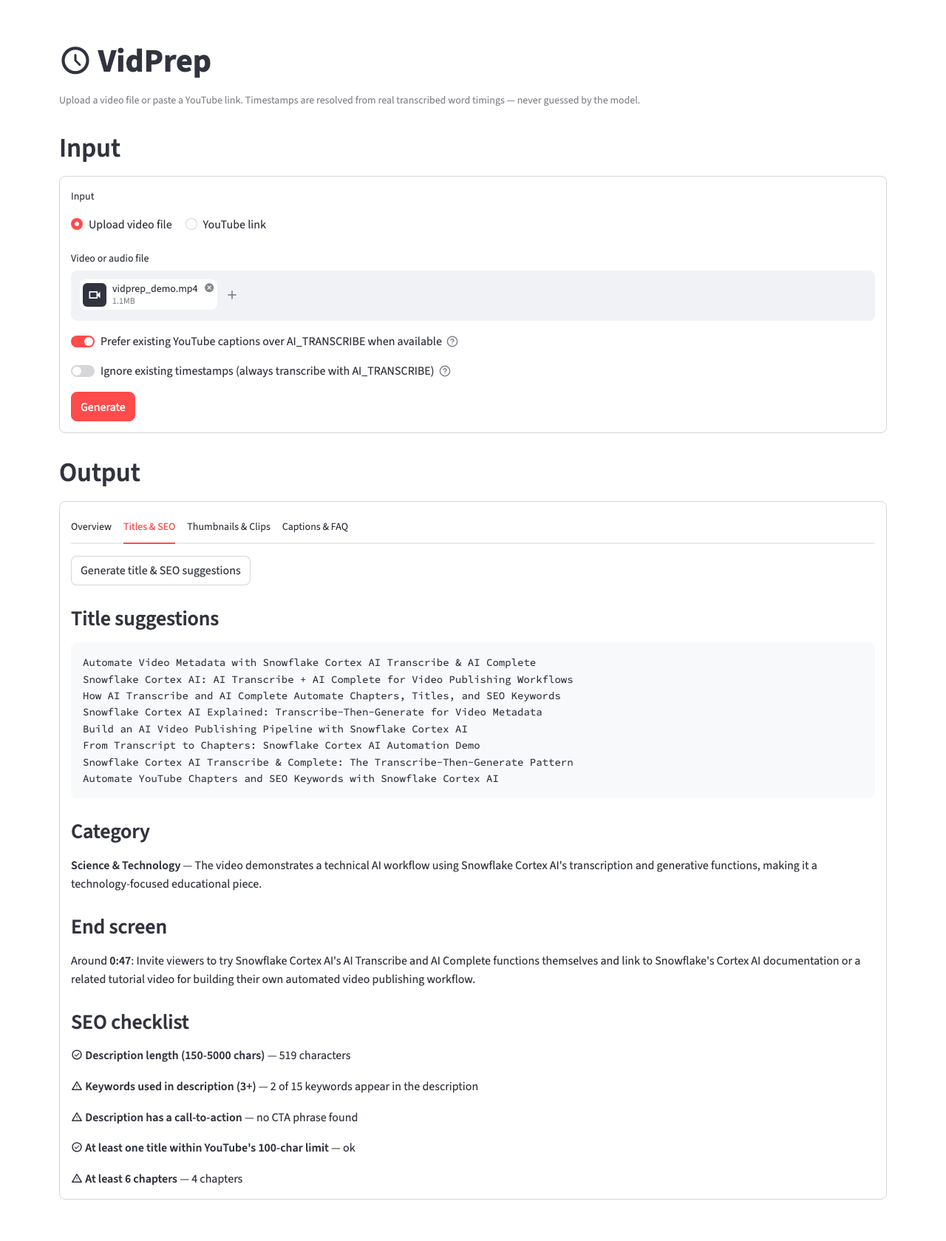
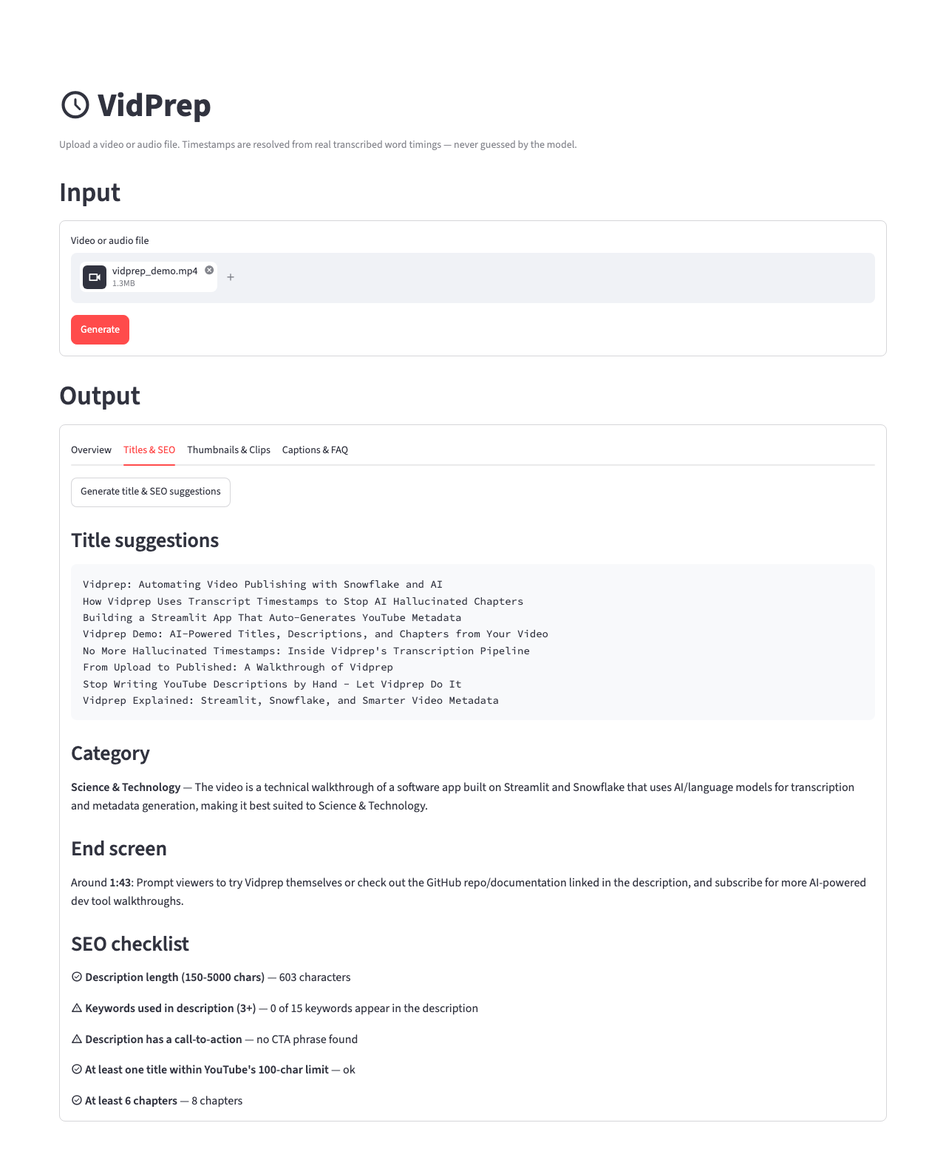
Sync guide with verified upload-only app and sample video
Brings the draft in line with sfquickstarts PR #3597: retry and cache fixes, YouTube path removed, refreshed live screenshots and diagram, and a pointer to the sample test video.

Generated with [Snowflake CoCo](https://docs.snowflake.com/en/user-guide/cortex-code/cortex-code)

diff --git a/ai-powered-video-publishing.md b/ai-powered-video-publishing.md
@@ -2,7 +2,7 @@ author: Chanin Nantasenamat
 id: ai-powered-video-publishing
 categories: snowflake-site:taxonomy/solution-center/certification/quickstart,snowflake-site:taxonomy/product/ai,snowflake-site:taxonomy/snowflake-feature/cortex-llm-functions
 language: en
-summary: Build VidPrep, a Streamlit-in-Snowflake app that uses AI_TRANSCRIBE and AI_COMPLETE to generate word-accurate video chapters, descriptions, SEO metadata, thumbnails, and captions.
+summary: Build VidPrep, a Streamlit-in-Snowflake app that uses AI_TRANSCRIBE and AI_COMPLETE to draft video chapters, descriptions, SEO metadata, thumbnails, and captions.
 environments: web
 status: Published
 feedback link: https://github.com/Snowflake-Labs/sfguides/issues
@@ -10,25 +10,26 @@ fork repo link: https://github.com/sfc-gh-cnantasenamat/ai-powered-video-publish
 
 
 # Build an AI-Powered Video Publishing App on Snowflake
-<!-- ------------------------ -->
 ## Overview
 
-Creators publishing a video usually have to write a description, mark chapter timestamps, pick SEO keywords, choose a thumbnail, and write captions, all by hand and all after the fact. VidPrep automates this end to end: give it a video file or a YouTube link, and it produces a word-accurate transcript, real (not guessed) chapter timestamps, a description, SEO titles and keywords, thumbnail candidates, pull quotes, caption files, and an FAQ, all backed by Snowflake Cortex.
+Creators publishing a video usually have to write a description, mark chapter timestamps, pick SEO keywords, choose a thumbnail, and write captions. VidPrep prepares drafts of these outputs from an uploaded video or audio file using Snowflake Cortex. Review the transcript and generated copy before publishing; transcription and model output can contain errors.
 
 The core design principle behind VidPrep is that a large language model should never be trusted to emit a timestamp directly, because it can hallucinate one that doesn't correspond to anything said in the video. Instead, the model is only ever asked to point at a position in a real, transcribed word array, and the actual timestamp is looked up in code from that position. This guide walks through that architecture and how to build and deploy the whole app on Snowflake.
 
 ![VidPrep architecture: video upload through AI-generated titles, descriptions, timestamps, thumbnails, and captions](assets/vidprep-flow-diagram.png)
+
+Read the solid arrows as processing order, not unconditional execution: cached results can skip work, and extras run only when requested. The warehouse provides the SQL query context; Cortex runs AI inference on its own compute. The diagram's warehouse arrows indicate SQL calls, not the location of model execution.
 
 ### What You'll Learn
 - How to use `AI_TRANSCRIBE` to produce word-level timestamped transcripts, including chunking media that exceeds its length limit
 - How to use `AI_COMPLETE` with a structured JSON response format to extract chapters, descriptions, and SEO metadata
 - Why timestamps should be resolved from real transcript data in code, never generated directly by a model
 - How to build a multi-tab Streamlit UI with lazy, cached AI generation per tab
-- How to deploy a Streamlit app that needs outbound internet access (via `yt-dlp`) using Snowpark Container Services and an External Access Integration
+- How to deploy a Streamlit app on the container runtime, with a compute pool and an External Access Integration for installing Python packages from PyPI
 
 ### What You'll Build
 VidPrep, a Streamlit-in-Snowflake app, with:
-- An **Overview** tab with generated chapters (clickable, deep-linking into the source video), a video preview, and a copy-paste description block
+- An **Overview** tab with generated chapters (clickable: each timestamp seeks the preview player), a video preview, and a copy-paste description block
 - A **Titles & SEO** tab with title suggestions, a YouTube category pick, an end-screen suggestion, and a free SEO checklist
 - A **Thumbnails & Clips** tab with real extracted thumbnail frames and verbatim pull quotes
 - A **Captions & FAQ** tab with downloadable `.srt`/`.vtt` caption files and a generated FAQ
@@ -41,18 +42,21 @@ VidPrep, a Streamlit-in-Snowflake app, with:
 
 ![VidPrep Captions & FAQ tab: downloadable caption files and a generated, timestamp-linked FAQ](assets/05-output-captions-faq.png)
 
+These screenshots show a synthetic demo upload and its generated results. The SEO checklist includes warnings, and generated copy should always be reviewed before publishing.
+
 ### Prerequisites
 - Access to a [Snowflake account](https://signup.snowflake.com/?utm_source=snowflake-devrel&utm_medium=developer-guides&utm_cta=developer-guides)
-- A role with privileges to create a warehouse, database, stage, compute pool, network rule, and external access integration (e.g. `ACCOUNTADMIN`, or an equivalent custom role)
+- A role with privileges to create a warehouse, database, stage, compute pool, and external access integration (e.g. `ACCOUNTADMIN`, or an equivalent custom role)
 - [Snowflake CLI](https://docs.snowflake.com/en/developer-guide/snowflake-cli/index) (`snow`) installed locally
 - Python 3.11+ installed locally
 - Familiarity with Python and basic SQL
 
-<!-- ------------------------ -->
 ## Setup
 
 ### Create the Snowflake objects
-Run the following as a role with sufficient privileges. This creates a dedicated warehouse, database/schema, an internal stage (used to hand media files to `AI_TRANSCRIBE`), a compute pool for the Streamlit container runtime, and two External Access Integrations: one so the app can reach YouTube, and one so the container runtime can install the Python dependencies in `pyproject.toml` from PyPI (container runtime apps have no PyPI access by default).
+Use a dedicated tutorial environment, and record which resources you create. Do not reuse or replace another project's app. Cortex calls and container compute incur usage charges.
+
+Run the following as a role with sufficient privileges. This creates a dedicated warehouse, database/schema, an internal stage (used to hand media files to `AI_TRANSCRIBE`), a compute pool for the Streamlit container runtime, and an External Access Integration so the container runtime can install the Python dependencies in `pyproject.toml` from PyPI (container runtime apps have no PyPI access by default).
 
 ```sql
 -- XSMALL is enough here: the AI_TRANSCRIBE/AI_COMPLETE calls run on Cortex's
@@ -70,15 +74,6 @@ CREATE COMPUTE POOL IF NOT EXISTS VIDPREP_COMPUTE_POOL
   MAX_NODES = 1
   INSTANCE_FAMILY = CPU_X64_XS;
 
-CREATE NETWORK RULE IF NOT EXISTS VIDPREP_EGRESS_RULE
-  MODE = EGRESS
-  TYPE = HOST_PORT
-  VALUE_LIST = ('youtube.com', '*.youtube.com', '*.googlevideo.com');
-
-CREATE EXTERNAL ACCESS INTEGRATION IF NOT EXISTS VIDPREP_EAI
-  ALLOWED_NETWORK_RULES = (VIDPREP_EGRESS_RULE)
-  ENABLED = TRUE;
-
 -- Container runtime apps need this to install pyproject.toml's dependencies
 -- from PyPI. SNOWFLAKE.EXTERNAL_ACCESS.PYPI_RULE is a Snowflake-managed
 -- network rule, so no separate CREATE NETWORK RULE is needed for it.
@@ -94,7 +89,7 @@ cd ai-powered-video-publishing
 ```
 
 ### Review the dependencies
-The app's `pyproject.toml` pulls in everything needed, including `yt-dlp` for media acquisition, `imageio-ffmpeg` for a bundled ffmpeg binary (the container runtime has no system ffmpeg), and `deno`, which `yt-dlp` needs as a JavaScript runtime to solve YouTube's signature challenges:
+The app's `pyproject.toml` is short. Besides Streamlit and the Snowflake connector, it only needs `imageio-ffmpeg` for a bundled ffmpeg binary, because the container runtime has no system ffmpeg:
 
 ```toml
 [project]
@@ -103,11 +98,8 @@ version = "0.1.0"
 requires-python = ">=3.11"
 dependencies = [
     "snowflake-connector-python>=3.3.0",
-    "streamlit[snowflake]>=1.57.0",
-    "webvtt-py>=0.5.1",
-    "yt-dlp[default]>=2026.8.19",
+    "streamlit[snowflake]>=1.64.0",
     "imageio-ffmpeg>=0.5.1",
-    "deno>=2.9.0",
 ]
 ```
 
@@ -129,71 +121,52 @@ def run_query(sql: str, params=None):
     return cur.fetchall()
 ```
 
-For local development, create `.streamlit/secrets.toml`:
+For local development, use an existing named Snowflake connection without copying credentials into the project. Start the app with the intended profile explicitly selected:
 
-```toml
-[connections.snowflake]
-account = "<your_account_identifier>"
-user = "<your_username>"
-password = "<your_password>"
-warehouse = "VIDPREP_WH"
-role = "<your_role>"
-database = "VIDPREP_DB"
-schema = "APPS"
+```bash
+SNOWFLAKE_DEFAULT_CONNECTION_NAME=<your_connection_name> python -m streamlit run app.py
 ```
+
+Confirm that profile targets the intended account and has access to the configured stage. Hosted Streamlit uses its embedded identity. For isolated tests, set `VIDPREP_STAGE_FQN` to a test-only stage and `VIDPREP_CACHE_DIR` to a fresh local directory. Stage names must contain three unquoted identifiers. Never commit connection credentials.
 
 > aside negative
 > **Important**: `st.connection("snowflake")` sets `snowflake.connector.paramstyle` to `"qmark"` as a side effect. Every SQL statement in this app uses `?` placeholders, never `%s`; mixing in `%s` produces a confusing syntax error at the Snowflake parser, not a Python error.
 
-<!-- ------------------------ -->
 ## Acquire the Media
 
-`acquire.py` normalizes both input paths (a local upload and a YouTube URL) into one `AcquiredMedia` object that the rest of the pipeline consumes identically.
-
-For YouTube links, `yt-dlp` fetches metadata (title, description, existing chapters, captions) and downloads audio for transcription plus a small local preview video:
+`acquire.py` saves the uploaded file and wraps it in one `AcquiredMedia` object that the rest of the app consumes. Start with media you own or are authorized to process. Uploads use unique temporary filenames, so an uploaded filename cannot overwrite another file, and the cache key is a hash of the file's contents:
 
 ```python
-def _base_ydl_opts() -> dict:
-    """Common yt-dlp options. Uses a real logged-in session's cookies (if
-    present) to get past YouTube's bot-detection on datacenter/cloud IPs
-    (e.g. Snowflake SPCS); this requires a JS runtime (deno, installed as a
-    dependency) to solve YouTube's signature challenges for the default web
-    client. Note: don't override player_client here: clients like
-    'android'/'tv_embedded' explicitly refuse to use cookies, which would
-    silently break authenticated access."""
-    opts: dict = {}
-    if YOUTUBE_COOKIES_FILE and os.path.exists(YOUTUBE_COOKIES_FILE):
-        opts["cookiefile"] = YOUTUBE_COOKIES_FILE
-    return opts
+def acquire_from_upload(uploaded_file) -> AcquiredMedia:
+    """Save a Streamlit UploadedFile to disk and wrap it as AcquiredMedia."""
+    ext = os.path.splitext(uploaded_file.name)[1].lstrip(".").lower()
+    if ext not in _SUPPORTED_VIDEO_EXTS and ext not in _SUPPORTED_AUDIO_EXTS:
+        raise AcquisitionError(
+            f"Unsupported file type '.{ext}'. AI_TRANSCRIBE supports: "
+            f"{sorted(_SUPPORTED_VIDEO_EXTS | _SUPPORTED_AUDIO_EXTS)}"
+        )
+
+    with tempfile.NamedTemporaryFile(dir=TMP_DIR, suffix=f".{ext}", delete=False) as destination:
+        dest_path = destination.name
+        destination.write(uploaded_file.getbuffer())
+
+    file_hash = _file_hash(dest_path)
+    media_kind = "video" if ext in _SUPPORTED_VIDEO_EXTS else "audio"
+
+    return AcquiredMedia(
+        source_type="upload",
+        local_media_path=dest_path,
+        media_kind=media_kind,
+        cache_key=f"upload_{file_hash}",
+        title=os.path.splitext(uploaded_file.name)[0],
+    )
 ```
 
-Two things worth calling out from real-world debugging of this integration:
+Uploaded video files double as the preview player's source and the input for thumbnail frame extraction. Audio-only uploads get an audio player instead, and the thumbnail tab reports that no video frames are available.
 
-- **Cloud IPs get bot-detection blocked by YouTube.** Client spoofing (pretending to be a mobile app) does not fix this; the fix is real, logged-in session cookies (exported once locally with `yt-dlp --cookies-from-browser chrome --cookies youtube_cookies.txt` and shipped as an app artifact).
-- **Cookies and non-browser clients don't mix.** `yt-dlp`'s `android`/`tv_embedded` clients silently refuse to use cookies, which breaks authenticated access without an obvious error. Stick to the default `web` client, which needs a JavaScript runtime (`deno`) to solve YouTube's signature challenge.
-
-A small, low-resolution preview video is also downloaded for the UI player, muxing a video-only stream with an audio-only stream via `ffmpeg`, since most videos have no single pre-combined file below 360p:
-
-```python
-preview_opts = {
-    **_base_ydl_opts(),
-    "quiet": True,
-    "no_warnings": True,
-    "format": (
-        "bestvideo[height<=240][ext=mp4]+bestaudio[ext=m4a]/"
-        "bestvideo[height<=240]+bestaudio/"
-        "best[height<=240]/worst[ext=mp4]/worst"
-    ),
-    "merge_output_format": "mp4",
-    "ffmpeg_location": imageio_ffmpeg.get_ffmpeg_exe(),
-    "outtmpl": preview_template,
-}
-```
-
-<!-- ------------------------ -->
 ## Transcribe with AI_TRANSCRIBE
 
-`transcribe.py` builds a single, global word-level timeline for the media: the ground truth every downstream timestamp is resolved against.
+`transcribe.py` builds a single transcript timeline for the media. Downstream timestamps are resolved against that timeline, so their accuracy depends on the transcription.
 
 `AI_TRANSCRIBE` has a practical limit on media length when requesting word-level timestamps, so longer media is split into chunks with `ffmpeg`, transcribed independently, and re-based onto one continuous timeline using each chunk's *measured* duration (not the requested split point, which can drift):
 
@@ -205,19 +178,20 @@ def _transcribe_chunk_with_ai_transcribe(chunk_path: str) -> dict:
         f"SELECT AI_TRANSCRIBE(TO_FILE('@{STAGE_FQN}', ?), "
         "OBJECT_CONSTRUCT('timestamp_granularity', 'word'))"
     )
-    rows = run_query(sql, params=(staged_name,))
-    if not rows or rows[0][0] is None:
-        raise TranscriptionError(f"AI_TRANSCRIBE returned no result for {chunk_path}.")
     try:
-        run_query(f"REMOVE '@{STAGE_FQN}/{staged_name}'")
-    except Exception:
-        pass  # cleanup best-effort; not fatal
-    return json.loads(rows[0][0])
+        rows = run_query(sql, params=(staged_name,))
+        if not rows or rows[0][0] is None:
+            raise TranscriptionError("AI_TRANSCRIBE returned no result.")
+        return json.loads(rows[0][0])
+    finally:
+        try:
+            run_query(f"REMOVE '@{STAGE_FQN}/{staged_name}'")
+        except Exception:
+            logging.getLogger(__name__).warning("Staged media cleanup failed; check the configured stage.")
 ```
 
-When a YouTube video already has manually-written captions, VidPrep uses those directly instead of calling `AI_TRANSCRIBE`. It's free and instant, at the cost of coarser cue-level (rather than word-level) timing.
+Cleanup is attempted even if transcription or response parsing fails. A cleanup warning means you should inspect the stage and remove only the files from your own run. Transcripts are cached by a hash of the uploaded file's contents, so uploading the same file again reuses its transcript.
 
-<!-- ------------------------ -->
 ## Generate with AI_COMPLETE
 
 This is the section that enforces VidPrep's core correctness rule. `generate.py` never asks the model for a timestamp. It only asks for a `word_index` into the transcript array it was shown, tagged inline as `[INDEX]word`:
@@ -243,24 +217,33 @@ _CHAPTER_SCAN_SCHEMA = {
 }
 ```
 
-The actual `AI_COMPLETE` call passes this schema as a structured `response_format`, guaranteeing valid JSON back:
+The `AI_COMPLETE` call requests structured JSON with this schema. A request can occasionally return NULL, so the helper retries a bounded number of times before reporting an error:
 
 ```python
 def _ai_complete_json(prompt: str, schema: dict) -> dict:
     sql = "SELECT AI_COMPLETE(?, ?, PARSE_JSON(?), PARSE_JSON(?))"
     model_params = json.dumps({"temperature": 0.2, "max_tokens": COMPLETE_MAX_TOKENS})
     response_format = json.dumps({"type": "json", "schema": schema})
-    rows = run_query(sql, params=(COMPLETE_MODEL, prompt, model_params, response_format))
-    if not rows or rows[0][0] is None:
-        raise GenerationError("AI_COMPLETE returned no result.")
-    raw = rows[0][0]
-    parsed = json.loads(raw) if isinstance(raw, str) else raw
-    return parsed
+    params = (COMPLETE_MODEL, prompt, model_params, response_format)
+    for attempt in range(1, AI_COMPLETE_ATTEMPTS + 1):
+        rows = run_query(sql, params=params)
+        if rows and rows[0][0] is not None:
+            raw = rows[0][0]
+            # AI_COMPLETE with response_format returns the structured object directly.
+            return json.loads(raw) if isinstance(raw, str) else raw
+        if attempt < AI_COMPLETE_ATTEMPTS:
+            time.sleep(AI_COMPLETE_RETRY_DELAY_SECONDS * attempt)
+    raise GenerationError(
+        f"AI_COMPLETE returned no result after {AI_COMPLETE_ATTEMPTS} attempts. "
+        "This is usually transient; please try again."
+    )
 ```
+
+The generated result and each extra (titles, quotes, FAQ) are cached under a key that includes a hash of the model and the inputs the prompt uses, so a changed transcript or regenerated result never reuses stale suggestions.
 
 This app uses `claude-sonnet-5` as the `AI_COMPLETE` model (set in `config.py`'s `COMPLETE_MODEL`), configurable to any model your account has access to.
 
-The transcript is scanned in overlapping word-count windows (not the whole thing in one call) so long videos still get even chapter coverage, and every returned `word_index` is validated against the actual transcript length before being trusted:
+The transcript is scanned in overlapping word-count windows rather than one full-transcript call. Returned indices are converted to integers and clamped to the transcript's bounds. This keeps timestamps within the transcript; it does not establish that the selected chapter boundary is suitable:
 
 ```python
 def _resolve_and_clean_chapters(words, raw_candidates: list[dict]) -> list[Chapter]:
@@ -295,14 +278,13 @@ _DESCRIPTION_SCHEMA = {
 }
 ```
 
-<!-- ------------------------ -->
 ## Add Publishing Extras
 
 `enhance.py` layers eight more publishing-prep features on top of the core pipeline, following the same "never invent, always resolve" rule:
 
 - **Titles, category, and an end-screen suggestion** come from one bundled `AI_COMPLETE` call. The category is constrained to YouTube's fixed list of categories and validated against it in code.
 - **A SEO checklist** is pure Python (no model call at all), checking description length, keyword usage, call-to-action presence, title length, and chapter count.
-- **Thumbnail candidates** are real JPEG frames extracted with `ffmpeg` at each chapter's timestamp, not AI-generated images.
+- **Thumbnail candidates** are real JPEG frames extracted with `ffmpeg` near each chapter start, using a two-second offset where the media duration permits.
 - **Pull quotes** reuse the same chunked-scan pattern as chapters: the model picks a `start_word_index`/`end_word_index` span, and the quote text is built verbatim from the transcript:
 
 ```python
@@ -322,12 +304,21 @@ def generate_quotes(media: AcquiredMedia, transcript: Transcript, max_quotes: in
 - **Caption files** (`.srt`/`.vtt`) are built deterministically from the word-level transcript by grouping words into cues, with no model call needed.
 - **An FAQ** phrases each chapter as a question, tied back to that chapter's real `start_seconds` by index, never a model-invented timestamp.
 
-<!-- ------------------------ -->
-## Build the Streamlit UI
+## Build the UI
 
-`app.py` wraps the Input controls in a bordered container, then, once a result exists in `st.session_state`, renders the Output section as four tabs. The three "extras" tabs are lazy: each has its own **Generate** button, and results are cached in `st.session_state["extras"]` so switching tabs doesn't lose them or re-trigger a model call:
+`app.py` wraps the Input controls in a bordered container, then, once a result exists in `st.session_state`, renders the Output section as four tabs. The tab set has a `key` and `on_change="rerun"` (available in Streamlit 1.64 and later), so the selected tab survives the rerun that every button click triggers. Without it, clicking an extras button would send the user back to Overview:
 
-![VidPrep Input section: choose a video file or YouTube link, then click Generate to run AI_TRANSCRIBE and AI_COMPLETE](assets/01-input-upload.png)
+![VidPrep Input section: upload a video or audio file, then click Generate to run AI_TRANSCRIBE and AI_COMPLETE](assets/01-input-upload.png)
+
+```python
+tab_overview, tab_titles_seo, tab_thumbs, tab_captions = st.tabs(
+    ["Overview", "Titles & SEO", "Thumbnails & Clips", "Captions & FAQ"],
+    key="output_tab",
+    on_change="rerun",
+)
+```
+
+The three "extras" tabs are lazy: each has its own **Generate** button, and results are kept in `st.session_state["extras"]` so switching tabs doesn't lose them or re-trigger a model call:
 
 ```python
 with tab_titles_seo:
@@ -344,12 +335,13 @@ with tab_titles_seo:
         st.code("\n".join(titles_seo.titles), language=None)
 ```
 
-`st.session_state["extras"]` is reset to an empty dict every time a new video finishes processing, so stale results from a previous run never linger into a new one.
+The app clears previous media, transcript, results, extras, and the selected tab when Generate is clicked, including when input is missing or the next request fails. A failed request therefore cannot leave another video's output displayed as its result, and each new result opens on Overview.
 
-<!-- ------------------------ -->
+If a model call still returns no result after its retries, the tab shows a "Generation failed" message. Click that tab's Generate button again; earlier results stay in place.
+
 ## Deploy to Snowflake
 
-VidPrep runs on the [Streamlit-in-Snowflake container runtime](https://docs.snowflake.com/en/developer-guide/streamlit/app-development/runtime-environments) rather than the classic warehouse runtime, because it needs outbound internet access (for `yt-dlp`) and a system-level `ffmpeg`, neither of which the warehouse runtime supports.
+VidPrep runs on the [Streamlit-in-Snowflake container runtime](https://docs.snowflake.com/en/developer-guide/streamlit/app-development/runtime-environments), using Python dependencies and the `ffmpeg` executable bundled by `imageio-ffmpeg`. The only outbound access it needs is PyPI, for installing those dependencies when the container starts.
 
 Define the deployment in `snowflake.yml`:
 
@@ -367,7 +359,6 @@ entities:
     compute_pool: VIDPREP_COMPUTE_POOL
     external_access_integrations:
       - PYPI_ACCESS
-      - VIDPREP_EAI
     main_file: app.py
     artifacts:
       - app.py
@@ -379,27 +370,38 @@ entities:
       - config.py
       - snowflake_conn.py
       - pyproject.toml
-      - youtube_cookies.txt
 ```
 
-The `snowflake.yml` in this repo references the exact object names created in Setup above. If you named any of yours differently, update `identifier.database`, `query_warehouse`, `compute_pool`, and `external_access_integrations` in `snowflake.yml` to match before deploying. Update `config.py`'s `STAGE_FQN` to match the stage you created (`VIDPREP_DB.APPS.VIDPREP_STAGE`), export your own YouTube cookies file (`yt-dlp --cookies-from-browser chrome --cookies youtube_cookies.txt`) into the project directory, then deploy:
+Check that `snowflake.yml` references the resources you created in Setup. If you chose different names, update the identifier, warehouse, compute pool, integrations, and `config.py` stage default together. Confirm each listed artifact exists and no credentials are included. Use a distinct app name for a test deployment; `--replace` must not overwrite an app you need to preserve.
 
 ```bash
 snow streamlit deploy vidprep --connection <your_connection_name> --replace
 ```
 
-The first deploy resolves and locks Python dependencies inside the container, which can take a few minutes. If you later change `pyproject.toml`, redeploy with `--prune` to clear the stale lockfile left on the stage.
+The first deploy resolves and locks Python dependencies inside the container, which can take a few minutes. If you later change `pyproject.toml`, redeploy with `--prune` to clear the stale lockfile left on the stage. The keyed output tabs require Streamlit 1.64 or later; if the deployed app fails on `st.tabs`, confirm the container resolved a version that satisfies the `pyproject.toml` floor.
 
-<!-- ------------------------ -->
+## Verify the Workflow
+
+1. Upload a short original video and select Generate. If you don't have one, use `sample/vidprep_demo.mp4` from the companion repository: a two-minute synthetic narrated demo with eight sections and no real people or data. The screenshots in this guide were produced from it. Confirm a description, ordered chapter timestamps, and a working local preview appear. Click a later chapter timestamp and confirm the preview player moves to that time.
+2. Generate titles/SEO suggestions, thumbnails, pull quotes, and an FAQ from their respective tabs. Each tab should stay selected after its Generate button runs. Download both caption formats and inspect their text and timestamps.
+3. For a fresh live check, use a new cache directory and test stage. A cached result or a mocked unit test is not proof of a new Snowflake call.
+4. Review transcription accuracy, generated claims, and chapter suitability manually. Resolved timestamps refer to transcript entries; they do not guarantee correct transcription or ideal chapter boundaries.
+
+## Clean Up
+
+Save any generated outputs you need before removing tutorial resources. Stop only local app processes you started. Remove your run's temporary uploads, chunks, thumbnails, and caches after they are no longer needed by the preview.
+
+Inspect the configured stage for leftover media, including files from failed requests, and remove only your own run's files. Ask the resource owner to remove the tutorial app and schema after confirming they are used exclusively for this exercise. Remove a tutorial-only warehouse or compute pool only if you created it and no other workload uses it. Keep shared databases, integrations, pools, warehouses, and preexisting apps unchanged. Do not use a broad cleanup command against a shared environment.
+
 ## Conclusion And Resources
 
-Congratulations! You've successfully built and deployed VidPrep, a Streamlit-in-Snowflake app that turns a raw video into a fully publish-ready package: word-accurate chapters, a description, SEO titles/keywords/category, thumbnail candidates, pull quotes, caption files, and an FAQ, all generated by Snowflake Cortex and verified against real transcript data rather than trusted blindly.
+VidPrep turns an uploaded video into draft publishing materials: chapters, a description, titles and keywords, thumbnail candidates, pull quotes, captions, and an FAQ. Chapter timestamps and quote spans are resolved from transcript data in code. Review those outputs before publishing.
 
 ### What You Learned
 - How to get word-level timestamped transcripts from `AI_TRANSCRIBE`, including chunking long media
-- How to use `AI_COMPLETE`'s structured JSON response format to extract reliable, schema-validated output from an LLM
+- How to request structured JSON from `AI_COMPLETE` and resolve returned indices against transcript data
 - Why resolving timestamps from real data in code, rather than trusting a model to emit them, eliminates a whole class of hallucination bugs
-- How to deploy a Streamlit app that needs outbound network access using the container runtime, a compute pool, and an External Access Integration
+- How to deploy a Streamlit app on the container runtime with a compute pool and an External Access Integration for PyPI
 
 ### Related Resources
 
@@ -412,4 +414,3 @@ Documentation:
 
 Additional Reading:
 - [ai-powered-video-publishing on GitHub](https://github.com/sfc-gh-cnantasenamat/ai-powered-video-publishing)
-- [yt-dlp documentation](https://github.com/yt-dlp/yt-dlp)
